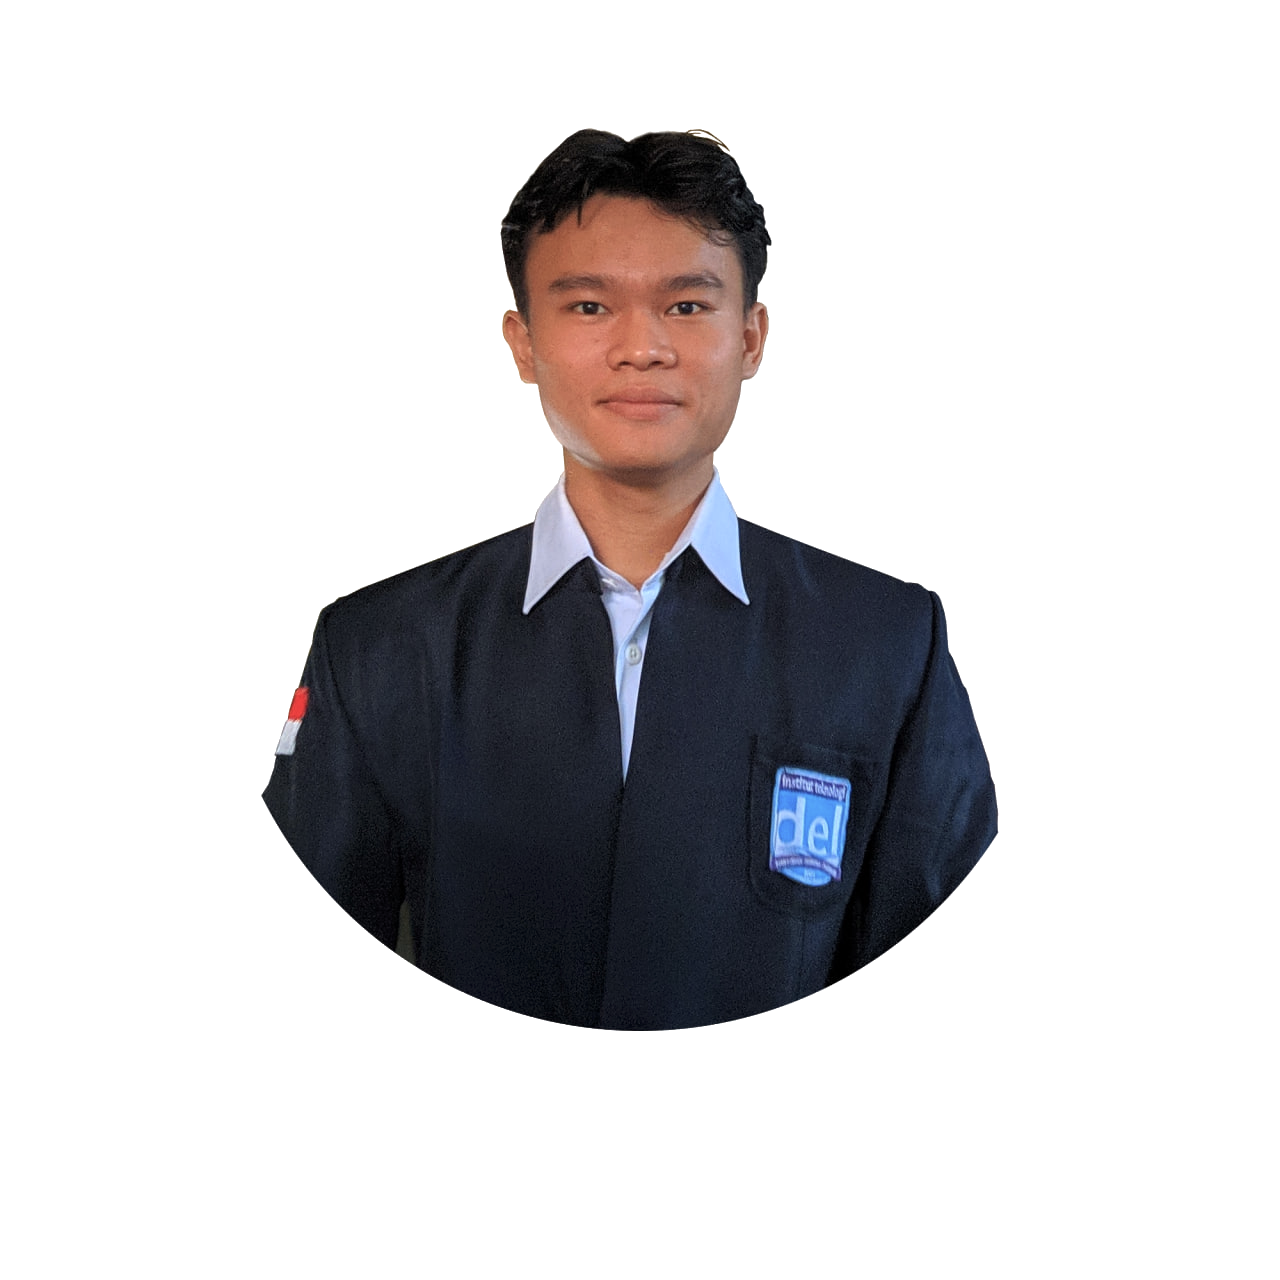
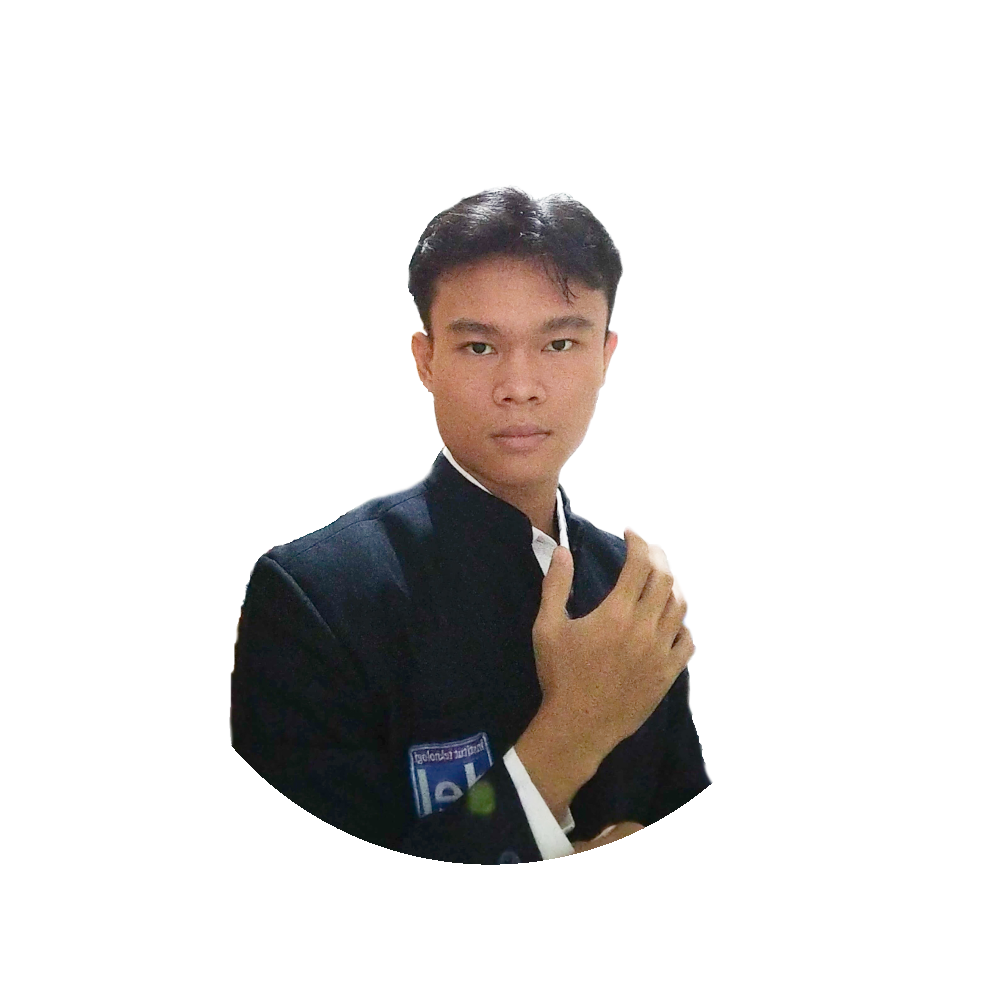
ganti foto

Changed region(s): [[0.186, 0.093, 0.806, 0.868], [0.31, 0.682, 0.341, 0.713]]

diff --git a/index.html b/index.html
@@ -45,7 +45,7 @@
             >I program myself, computers, and other people</span
           >
           <div id="bgfoto">
-            <img src="src/profil2.png" alt="" id="foto" />
+            <img src="src/test.png" alt="" id="foto" />
           </div>
           <div id="transparan"></div>
           <a href="https://www.linkedin.com/in/gabrielhtg/" target="_blank">

diff --git a/style.css b/style.css
@@ -119,8 +119,8 @@
 
 #foto {
   width: 340px;
-  margin-left: -60px;
-  margin-top: -55px;
+  margin-left: -55px;
+  margin-top: -76px;
   height: 350px;
 }
 
